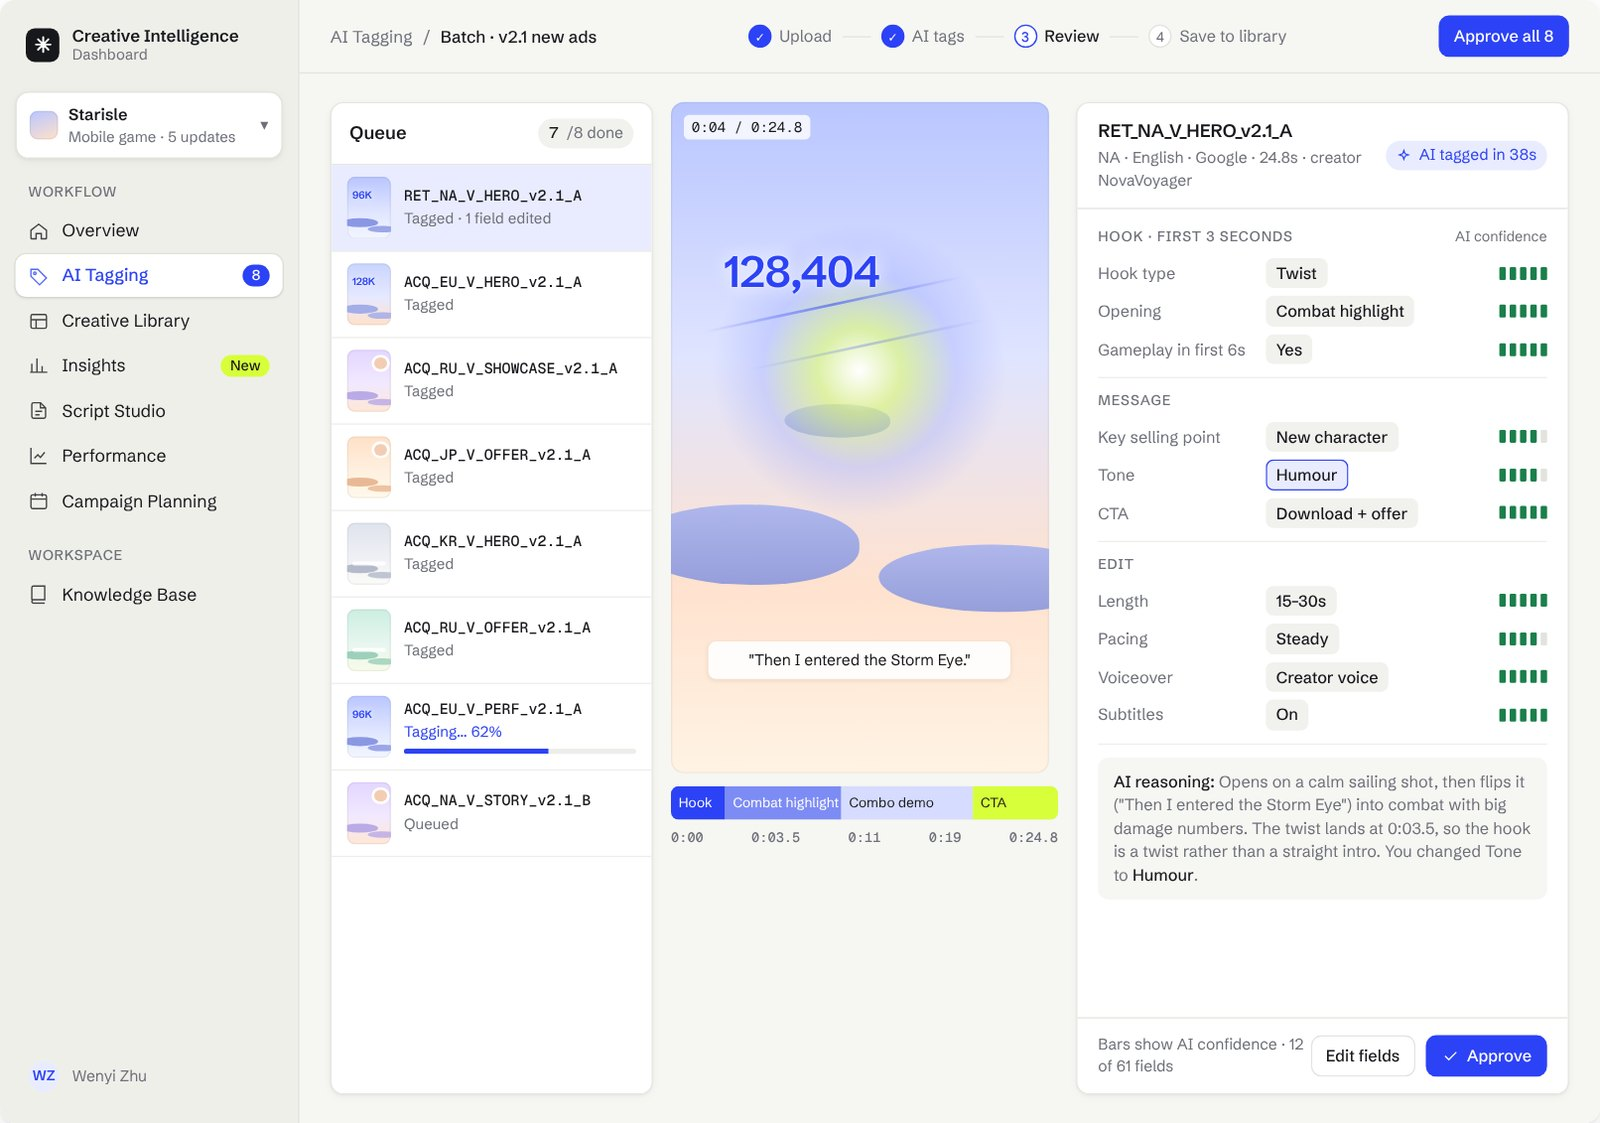
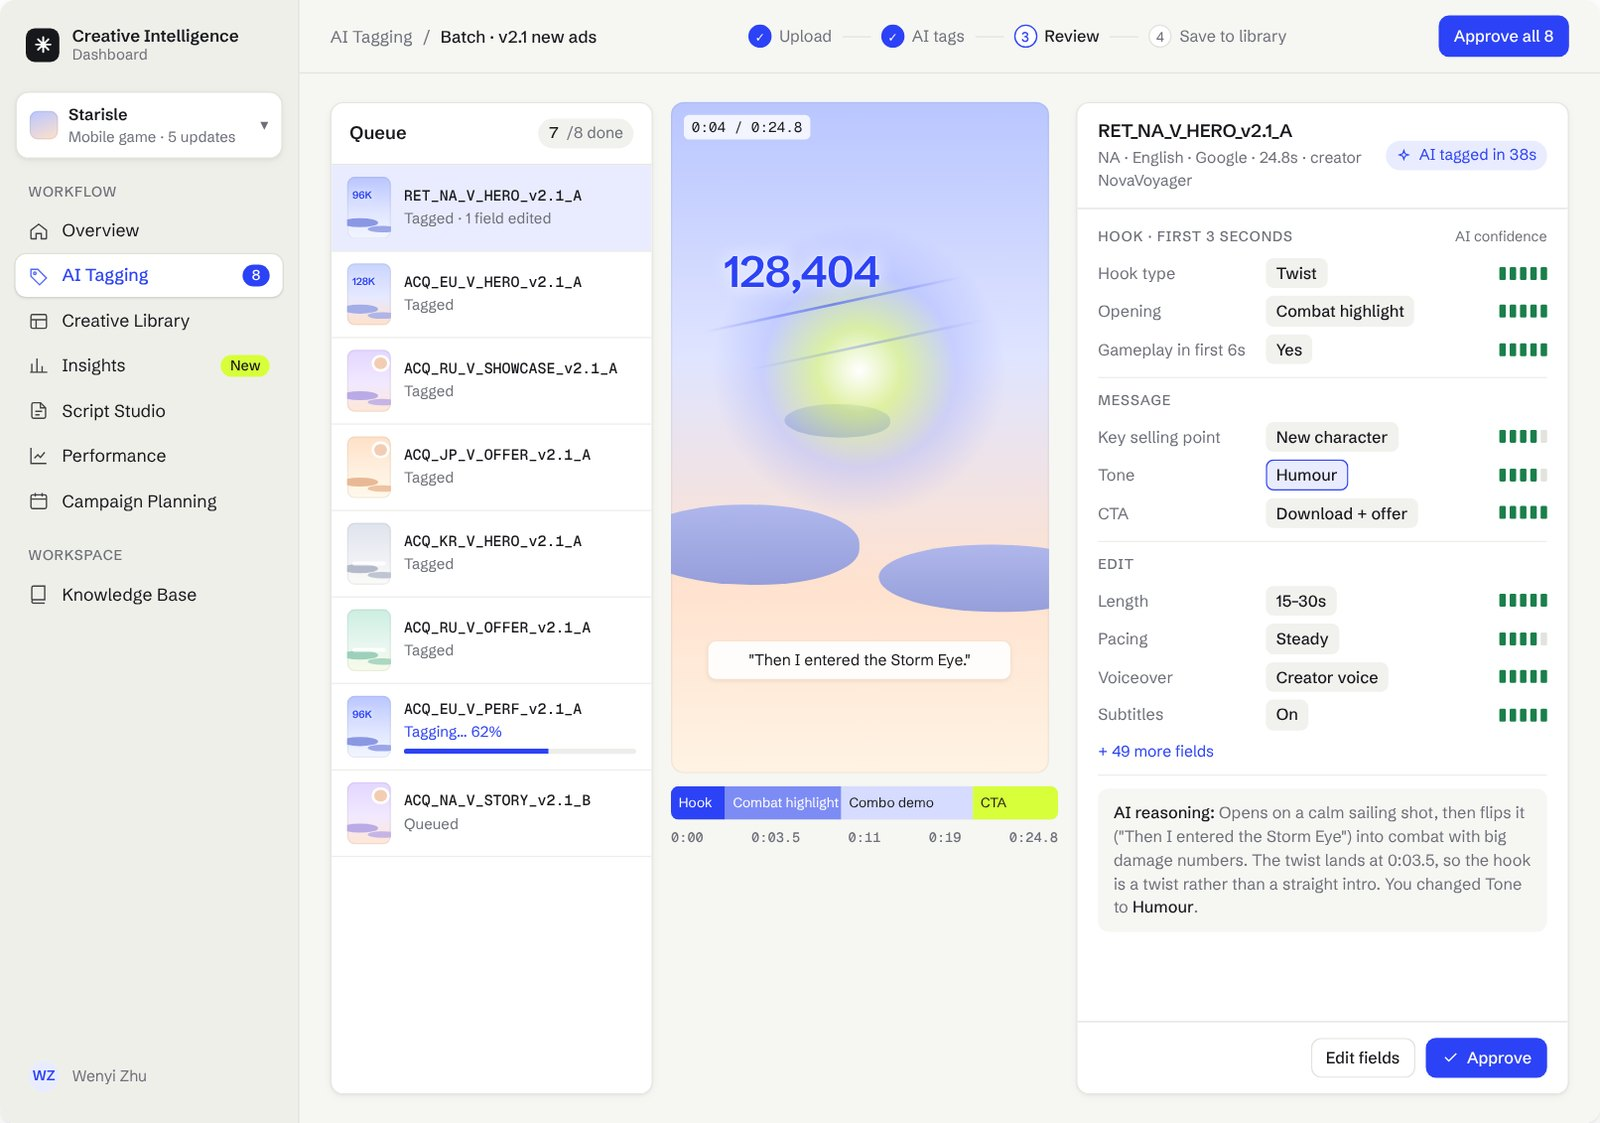
v64.12 prototype: footer notes removed from beside buttons
Claude-Session: https://claude.ai/code/session_01JyYwKzbh4M9BFm1TyVXpZo

diff --git a/public/demo/dashboard.html b/public/demo/dashboard.html
@@ -158,7 +158,8 @@ mark { background: var(--hi); color: inherit; padding: 0 2px; }
 .tv.edited { box-shadow: 0 0 0 1px var(--accent) inset; background: var(--accent-soft); }
 .why { margin: 0; padding: 10px 12px; border-radius: 8px; background: var(--bg); font-size: 12.5px; color: var(--muted); line-height: 1.45; }
 .why b { color: var(--fg); font-weight: 500; }
-.tags .tf { padding: 12px 16px; border-top: 1px solid var(--line); display: flex; justify-content: space-between; align-items: center; }
+.tags .tf { padding: 12px 16px; border-top: 1px solid var(--line); display: flex; justify-content: flex-end; align-items: center; }
+.tgroup .more { font-size: 12px; color: var(--accent); padding-top: 2px; }
 
 /* library */
 .lib { display: grid; gap: 14px; }
@@ -232,7 +233,7 @@ table.t { width: 100%; border-collapse: collapse; font-size: 12.5px; }
 .gen { display: grid; grid-template-rows: auto 1fr; gap: 12px; min-height: 0; }
 .genh { display: flex; justify-content: space-between; align-items: center; }
 .scripts { display: grid; grid-template-columns: 1.15fr 1fr; gap: 12px; min-height: 0; }
-.sc { display: grid; grid-template-rows: auto 1fr auto; overflow: hidden; }
+.sc { display: grid; grid-template-rows: auto 1fr; overflow: hidden; }
 .sc .sh { padding: 12px 16px; border-bottom: 1px solid var(--line); display: flex; justify-content: space-between; align-items: center; gap: 8px; }
 .beats { padding: 4px 16px; overflow: hidden; }
 .beat { display: grid; grid-template-columns: 64px 1fr; gap: 12px; padding: 10px 0; border-bottom: 1px solid var(--line-soft); }
@@ -479,10 +480,10 @@ function tagging(){
     <div class="tgroups">
       <div class="tgroup"><div class="tghead"><h5>Hook · first 3 seconds</h5><span class="confh">AI confidence</span></div>${tr('Hook type','Twist',5)}${tr('Opening','Combat highlight',5)}${tr('Gameplay in first 6s','Yes',5)}</div>
       <div class="tgroup"><h5>Message</h5>${tr('Key selling point','New character',4)}${tr('Tone','Humour',4,1)}${tr('CTA','Download + offer',5)}</div>
-      <div class="tgroup"><h5>Edit</h5>${tr('Length','15–30s',5)}${tr('Pacing','Steady',4)}${tr('Voiceover','Creator voice',5)}${tr('Subtitles','On',5)}</div>
+      <div class="tgroup"><h5>Edit</h5>${tr('Length','15–30s',5)}${tr('Pacing','Steady',4)}${tr('Voiceover','Creator voice',5)}${tr('Subtitles','On',5)}<span class="more">+ 49 more fields</span></div>
       <div class="tgroup" style="border:0"><p class="why"><b>AI reasoning:</b> Opens on a calm sailing shot, then flips it ("Then I entered the Storm Eye") into combat with big damage numbers. The twist lands at 0:03.5, so the hook is a twist rather than a straight intro. You changed Tone to <b>Humour</b>.</p></div>
     </div>
-    <div class="tf"><span class="muted" style="font-size:12px">Bars show AI confidence · 12 of 61 fields</span><div class="topr"><span class="btn ghost">Edit fields</span><span class="btn">${ic('check')}Approve</span></div></div>
+    <div class="tf"><div class="topr"><span class="btn ghost">Edit fields</span><span class="btn">${ic('check')}Approve</span></div></div>
   </div>`;
   return shell('tagging', top, `<div class="tg">${queue}${player}${tags}</div>`);
 }
@@ -571,9 +572,8 @@ function scripts(){
               ['0:06–0:17','Gameplay demo','「受けて、全部返す。ボタンは2つだけ。」','Combo replay, slow motion on the counter.'],
               ['0:17–0:22','CTA','「今なら招集チケット20枚プレゼント！」','End card, store badges.']];
   const card = (lang, mk, beats, jp, score) => `<div class="card sc${jp?' jp':''}">
-    <div class="sh"><div style="display:flex;gap:8px;align-items:center"><span class="chip blue"><b style="color:inherit">${lang}</b></span><b>${mk}</b></div><span class="muted" style="font-size:12px">22s · acquisition</span></div>
-    <div class="beats">${beats.map(([t,l,v,s])=>`<div class="beat"><span class="tm">${t}<b>${l}</b></span><div><div class="vo">${v}</div><div class="vis">${s}</div></div></div>`).join('')}</div>
-    <div class="sf"><span>Built on: twist hook · combat opening · 15–30s · humour</span><span class="topr"><span class="btn ghost">Edit</span></span></div></div>`;
+    <div class="sh"><div style="display:flex;gap:8px;align-items:center"><span class="chip blue"><b style="color:inherit">${lang}</b></span><b>${mk}</b></div><span class="topr"><span class="muted" style="font-size:12px">22s · acquisition</span><span class="btn ghost">Edit</span></span></div>
+    <div class="beats">${beats.map(([t,l,v,s])=>`<div class="beat"><span class="tm">${t}<b>${l}</b></span><div><div class="vo">${v}</div><div class="vis">${s}</div></div></div>`).join('')}</div></div>`;
   const body = `<div class="ss">
     <div class="cfg">
       <div class="card"><h5>Start from a winner</h5><div class="ref">${thumb(0)}<div><b>RET_NA_V_HERO_v2.1_A</b><div class="muted" style="font-size:12px">NA · 24.8s · 2.08M impressions</div></div></div><span class="pill win" style="justify-self:start">Winner</span></div>

diff --git a/docs/CHANGELOG.md b/docs/CHANGELOG.md
@@ -614,3 +614,7 @@
 - Owner: "AI tool · built with Claude Code" line replaced by two tags, Vibe Coding and Claude Code, in the same tag style as every case's markets and platforms.
 - "What it does" is unfolded when the card opens (new `open` flag on a section; every other section stays folded by default).
 - Summary removed (owner emptied it in the editor).
+
+## 2026-10-04 — v64.12 prototype: no notes squeezed beside buttons
+
+- Owner: footer notes next to buttons were cramped. Script cards: "Built on …" removed (it repeats "Insights applied"); Edit moves into the card header. Tagging: "Bars show AI confidence" removed (the column is already labelled); "12 of 61 fields" becomes "+ 49 more fields" at the end of the list. Phone screenshots re-shot.
